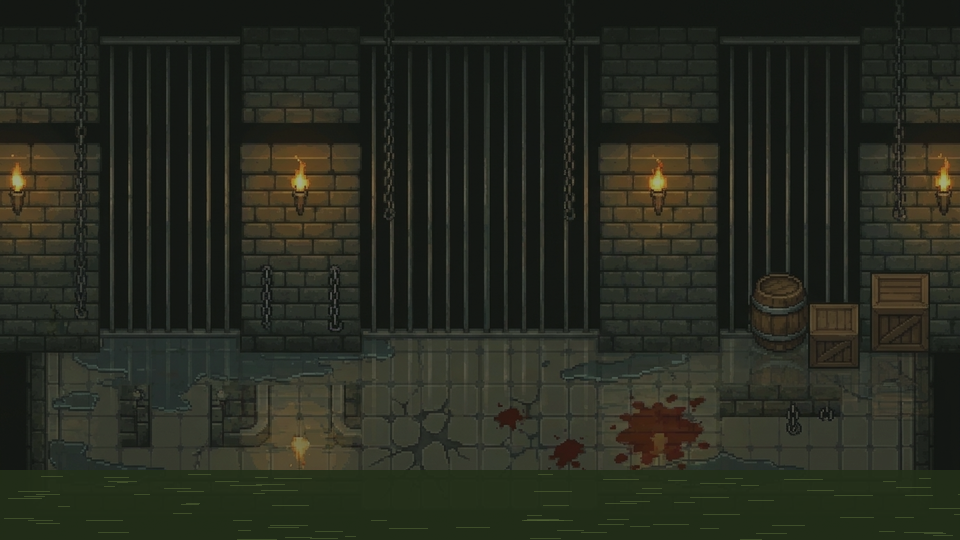
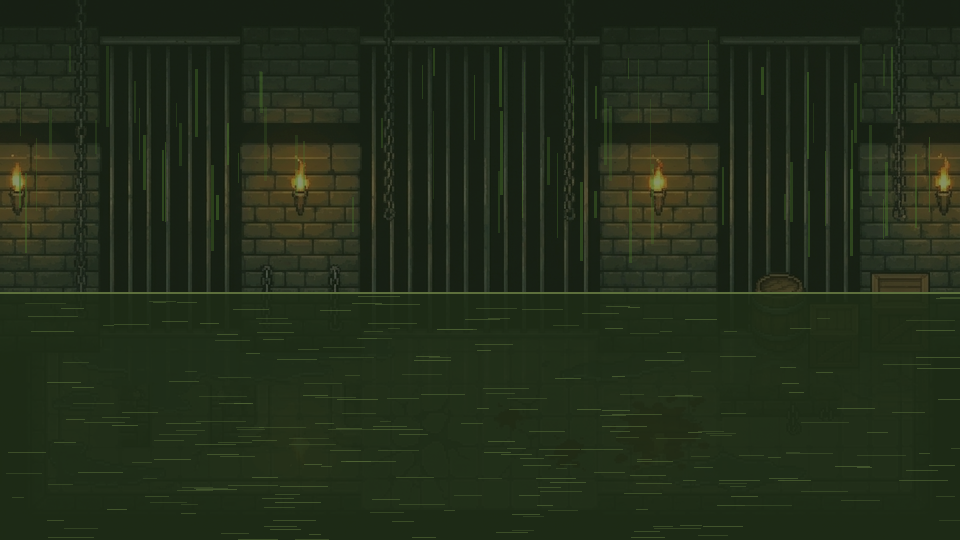
Fundo de batalha dos esgotos mais verde, com limo e canal; tira os prints da branch
Claude-Session: https://claude.ai/code/session_01BQ6qkr7rRDbX5xBjqd9hnq

diff --git a/tools/artes_esgoto.py b/tools/artes_esgoto.py
@@ -329,16 +329,23 @@ def saco():
 
 def fundo():
     img = Image.open(ASSETS / "batalha" / "fundo_prisao.png").convert("RGB")
-    img = ImageEnhance.Brightness(img).enhance(0.8)
-    camada = Image.new("RGB", img.size, (50, 70, 34))
-    img = Image.blend(img, camada, 0.25)
-    # canal de água no chão
+    img = ImageEnhance.Brightness(img).enhance(0.75)
+    camada = Image.new("RGB", img.size, (46, 72, 30))
+    img = Image.blend(img, camada, 0.38)
     d = ImageDraw.Draw(img, "RGBA")
     rnd = random.Random(2)
-    d.rectangle([0, 470, 960, 540], fill=(34, 46, 24, 230))
-    for _ in range(90):
-        x, y = rnd.randrange(960), rnd.randrange(474, 540)
-        d.line([(x, y), (x + rnd.randrange(10, 40), y)], fill=(80, 96, 52, 160))
+    # limo escorrendo das paredes
+    for _ in range(70):
+        x = rnd.randrange(960)
+        y = rnd.randrange(40, 200)
+        comp = rnd.randrange(20, 90)
+        d.line([(x, y), (x, y + comp)], fill=(70, 110, 40, rnd.randrange(60, 140)), width=rnd.choice((1, 2, 3)))
+    # canal de água no chão, onde a party pisa
+    d.rectangle([0, 292, 960, 540], fill=(30, 44, 22, 215))
+    for _ in range(260):
+        x, y = rnd.randrange(960), rnd.randrange(296, 540)
+        d.line([(x, y), (x + rnd.randrange(10, 50), y)], fill=(86, 108, 56, rnd.randrange(80, 170)))
+    d.line([(0, 292), (960, 292)], fill=(110, 130, 70, 200), width=2)
     img.save(ASSETS / "batalha" / "fundo_esgoto.png")
 
 
